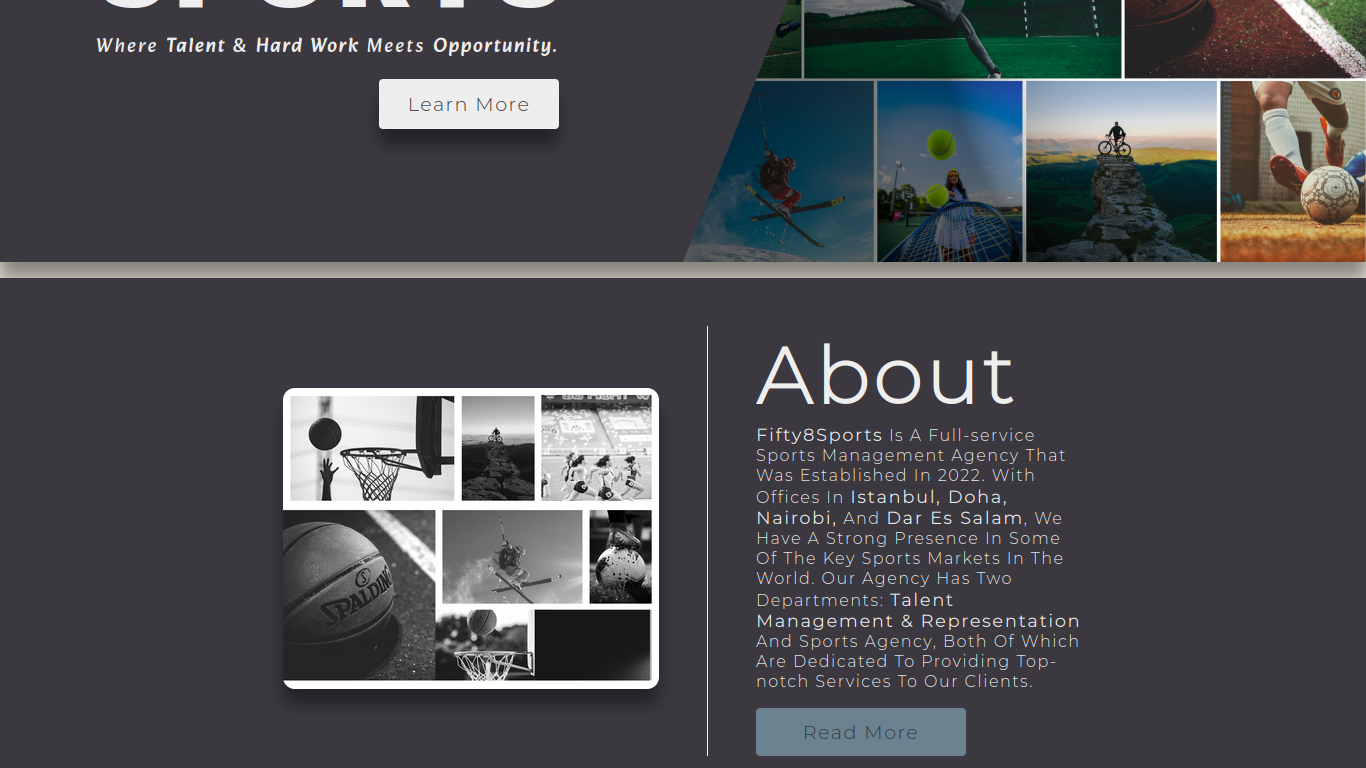
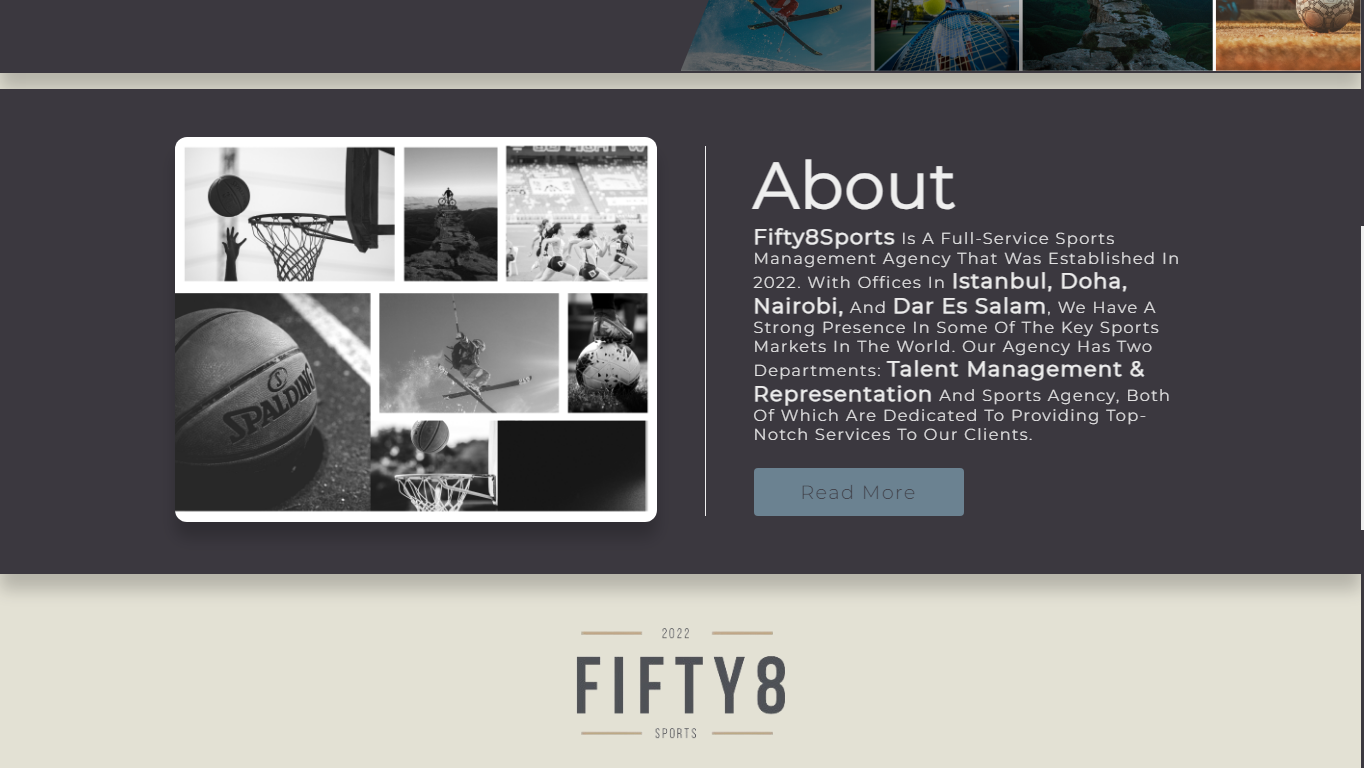
UPDATE: UI Update

diff --git a/index.html b/index.html
@@ -152,7 +152,8 @@
         <section id="about" class="about" data-aos="fade-up" data-aos-duration="1100">
             <div class="about-wrapper">
                 <div class="about-img-container">
-                    <img src="./assets/images/collage.png" alt="footballer" class="about-img" data-aos="fade-right" data-aos-duration="1100">
+                    <img src="./assets/images/collage.png" alt="footballer" class="about-img" data-aos="fade-right"
+                        data-aos-duration="1100">
                 </div>
 
                 <div class="about-content">
@@ -195,13 +196,14 @@
                     </h2>
 
                     <form action="#" class="form">
-                        <input type="text" name="fullname" id="name" placeholder="Enter full name..." data-aos="fade-left" data-aos-duration="1000">
+                        <input type="text" name="fullname" id="name" placeholder="Enter full name..."
+                            data-aos="fade-left" data-aos-duration="1000">
 
-                        <input type="email" name="email" id="email" placeholder="Enter valid email..." data-aos="fade-right" data-aos-duration="1000">
+                        <input type="email" name="email" id="email" placeholder="Enter valid email..."
+                            data-aos="fade-right" data-aos-duration="1000">
 
-                        <textarea name="" id="textarea" data-aos="fade-up" data-aos-duration="1000">
-                            Type Message...
-                        </textarea>
+                        <textarea name="" id="textarea" data-aos="fade-up" data-aos-duration="1000"
+                            placeholder="Type Message..."></textarea>
 
                         <button class="submit-btn">
                             Send Message

diff --git a/css/App.css b/css/App.css
@@ -16,7 +16,7 @@
     --cadet-gray-2: #859EADff;
     --alice-blue: #DEE8EEff;
     --eerie-black-2: #132120ff;
-    --shadow: 0 1rem 1rem 0 rgba(0, 0, 0, .4);
+    --shadow: 0 1rem 1rem 0 rgba(0, 0, 0, .2);
 }
 
 * {
@@ -29,8 +29,29 @@
     transition: .4s all ease;
 }
 
+html {
+    scroll-behavior: smooth;
+}
+
+::-webkit-scrollbar {
+    width: 5px;
+}
+
+::-webkit-scrollbar-track {
+    background: var(--black);
+}
+
+::-webkit-scrollbar-thumb {
+    background: var(--white);
+}
+
+::-webkit-scrollbar-thumb:hover {
+    background: var(--slate-gray);
+}
+
 body {
     background: var(--powder-blue);
+    overflow-x: hidden;
 }
 
 header {
@@ -79,7 +100,7 @@ header {
 .side-nav a:hover span {
     display: inline;
 }
- 
+
 .side-nav .btn-close {
     position: absolute;
     top: 0;
@@ -256,7 +277,7 @@ header {
     grid-template-columns: 1fr 1fr;
     gap: 3rem;
     align-items: center;
-    max-width: 800px;
+    max-width: 80%;
     margin: auto;
 }
 
@@ -273,14 +294,15 @@ header {
 .text {
     margin-left: 3rem;
 }
+
 .about-title {
-    font-size: 5rem;
+    font-size: 4rem;
 }
 
 .about-description span {
     font-weight: 600;
-    font-size: 1.1rem;
-} 
+    font-size: 1.3rem;
+}
 
 .read-more {
     margin-top: 1.5rem;

diff --git a/css/responsive.css b/css/responsive.css
@@ -76,6 +76,17 @@
     }
 }
 
+@media (max-width: 768px) {
+    .about {
+        margin-top: 11rem;
+        text-align: center;
+    }
+
+    .about-img {
+        width: 70%;
+    }
+}
+
 @media (max-width: 500px) {
     .logo {
         width: 60%;
@@ -114,6 +125,10 @@
         margin: 1rem;
     }
 
+    .about-img {
+        width: 100%;
+    }
+
     .text {
         margin: 0;
     }
@@ -122,7 +137,22 @@
         max-width: 300px;
     }
 
-    input, textarea, .submit-btn {
+    input,
+    textarea,
+    .submit-btn {
         max-width: 240px;
+    }
+}
+
+@media (max-width: 425px) {
+    .about {
+        margin-top: 0;
+    }
+}
+
+@media (max-width: 376px) {
+    .about {
+        padding: 1rem 0;
+        font-size: .8rem;
     }
 }

diff --git a/js/script.js b/js/script.js
@@ -1,11 +1,7 @@
 function openSideMenu() {
     document.getElementById('side-menu').style.width = '250px';
-
-    // document.getElementById('main').style.marginLeft = '250px';
 }
 
 function closeSideMenu() {
     document.getElementById('side-menu').style.width = '0';
-
-    // document.getElementById('main').style.marginLeft = '0';
-}
+} 
